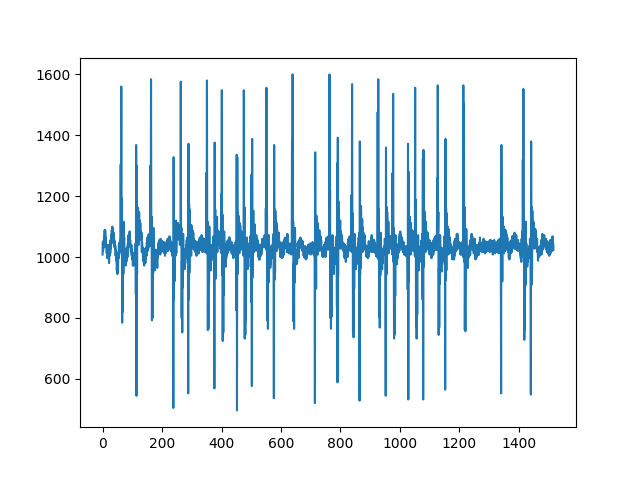
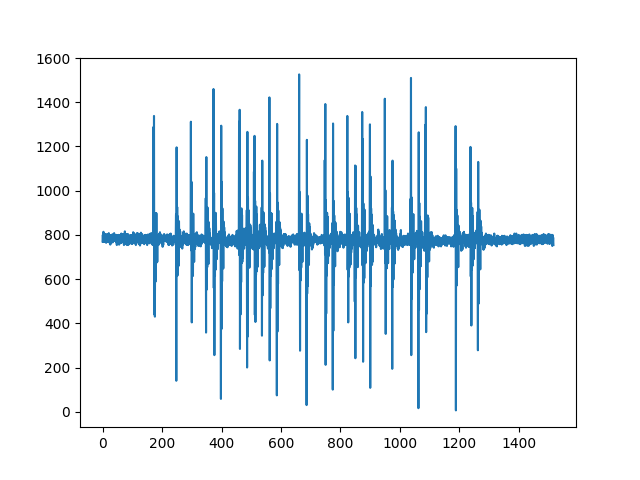
Sređeni fajlovi

diff --git a/CCC_ObradaVanEckSignalaSaProveromProboja_osnovna.py b/CCC_ObradaVanEckSignalaSaProveromProboja_osnovna.py
@@ -37,20 +37,20 @@ with socket.socket(socket.AF_INET, socket.SOCK_STREAM) as sock:
     data2c2 = []
 
 
-    for c1, c2 in zip(data[2::2], data[3::2]):
+    for c1, c2 in zip(data[10::2], data[11::2]):
         data_.append(c1 + 2**8 * c2)
         data1.append(c1)
         data2.append(c2)
-
+    print(len(data))
     data_ = np.array(data_)
     data_ = np.where(data_ < 2**15, 2**16+data_ , data_) - 2**16
     data_ = -data_
 
-    for c1, c2 in zip(data2[2::2], data2[3::2]):
+    for c1, c2 in zip(data2[10::2], data2[11::2]):
         data_c2.append(c1 +  2**8 * c2)
         data1c2.append(c1)
         data2c2.append(c2)
-
+    print("data2" ,len(data2))
 
     data_c2 = np.array(data_c2)
     data_c2 = np.where(data_c2 < 2**15, 2**16+data_c2 , data_c2) - 2**16
@@ -60,15 +60,18 @@ with socket.socket(socket.AF_INET, socket.SOCK_STREAM) as sock:
     numeracija = []
     for i in range(d):
         numeracija.append(i)
-
+    numeracija2 = []
+    for i in range(d//2-1):
+        numeracija2.append(i)
+    print(len(data_c2))
 
     fig1,(g1,g2,g,g1c2,g2c2,gc2)= plt.subplots(6)
     g1.plot(numeracija,data1)
     g2.plot(numeracija,data2)
     g.plot(numeracija,data_)
-    g1c2.plot(numeracija,data1c2)
-    g2c2.plot(numeracija,data2c2)
-    gc2.plot(numeracija,data_c2)
+    g1c2.plot(numeracija2,data1c2)
+    g2c2.plot(numeracija2,data2c2)
+    gc2.plot(numeracija2,data_c2)
 
 
     data_s=[]
